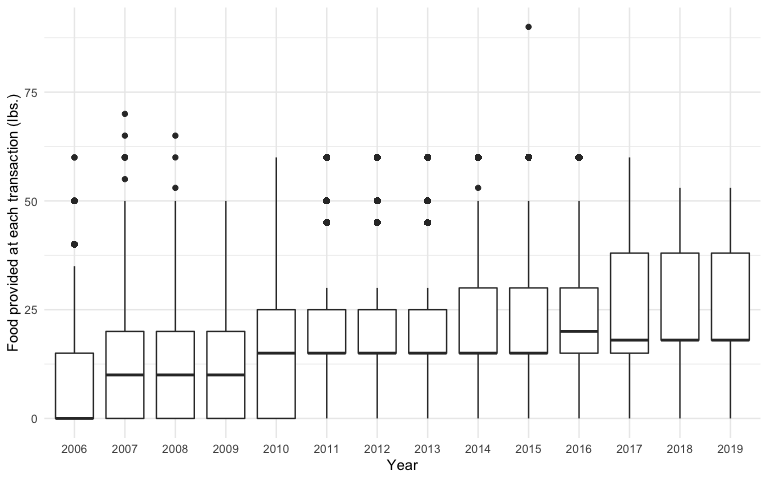
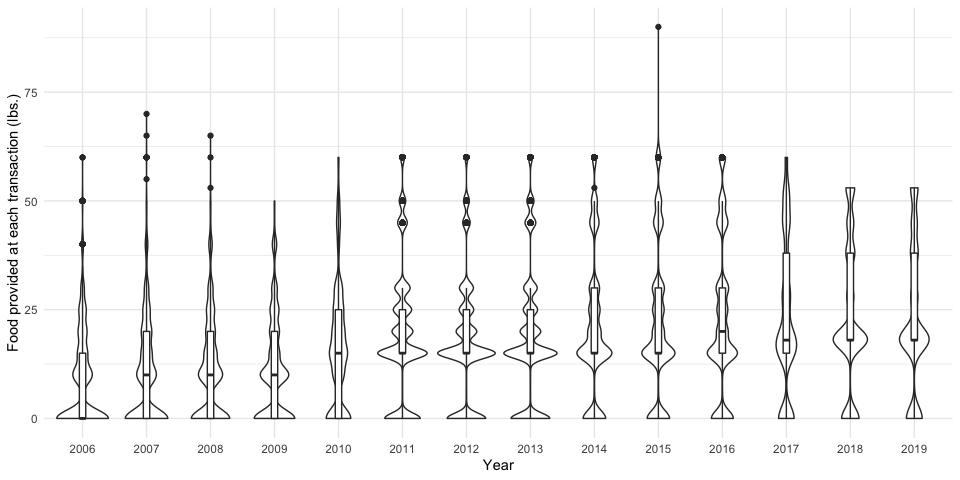
Updated project_1.Rmd to address points made in feedback.

diff --git a/project_1/results/project_1.md b/project_1/results/project_1.md
@@ -1,53 +1,69 @@
 Analysis of Urban Ministries of Durham Data
 ================
 Joseph Foster
-9/25/2019
+10/07/2019
 
-### Motivation of Overview
+### Motivation of Study
 
-Given one of the primary methods through which UMD is helping to end
-homelessness is food, I aim to assess how well the organization has
-distributed food in the past, and what factors may have influenced that
+Urban Ministries of Durham (UMD) is helping to end homelessness through
+the distribution of food, providing shelter, and helping develop
+futures. Here I aim to assess how well the organization has distributed
+food in the past, and what factors may have influenced that
 distribution.
 
 ### Report
 
-I first looked at how much food is distributed annually from 2006 to
+I first looked at how much food was distributed annually from 2006 to
 current date. What I found was the total annual food provided has
 increased over the last 5 years, and has been trending upward since
-2006.
+2006. Note data collection from the current year 2019 is likely
+incomplete and is probably driving the reported reduction of food
+provided to clients. Nonetheless, these data may be helpful for UMD when
+pitching to new funding sources, as they can show the the organization’s
+ability to provide more food to clients
+year-to-year.
 
 <img src="project_1_files/figure-gfm/fig1-1.png" style="display: block; margin: auto;" />
 
-To understand how much food was being distributed per transaction, I
-looked at the distribution of food quantity per interaction over a year
-for the past 13 years. This showed the average size of each food
-distribution has been stable for nearly a
-decade.
+Given the upward trend in total food distribution over the last decade I
+next looked to see how that food was distributed on a client-by-client
+basis. To understand how much food was being distributed per
+transaction, I looked at the distribution of food received during each
+interaction for every year over the past 13 years. The average amount of
+food given at each distribution has been stable for nearly a decade.
+This analysis also suggests UMD has done well at reducing any outlier
+food allotments since 2011. Taken together these data may suggest the
+operation procedures driving food distribution are helping to create an
+equality in the distribution of
+food.
 
 <img src="project_1_files/figure-gfm/fig2-1.png" style="display: block; margin: auto;" />
 
-To understand if paying a bill impacts the amount of food received per
-interaction, I looked at the amount of food received per interaction on
-an annual basis for individuals who reported paying a bill and those who
-did not. Over the past 13 years only two of the years showed a
-significant difference in the amount of food received when the client
-also reported paying a bill. However, these data shouldn’t be over
-interpreted as there were only 127 interactions where a bill was
-reported as paid, while there were over 65,000 interactions with no
-mention of paying
+I next sought to determine if other variables impacted how UMD is
+distributing food. Specifically, to understand if paying a bill impacts
+the amount of food received per interaction, I looked at the amount of
+food received per interaction on an annual basis for individuals who
+reported paying a bill and those who did not. Over the past 13 years,
+only two years showed a significant difference (2006, 2008) in the
+amount of food received when the client also reported paying a bill
+(Wilcoxn rank sum test, ns: p \> 0.05, \* p \<= 0.05, \*\* p \<= 0.01).
+However, these data shouldn’t be over interpreted as there were only 127
+interactions where a bill was reported as paid, while there were over
+65,000 interactions included in this analysis with no mention of paying
 bills.
 
 <img src="project_1_files/figure-gfm/fig-1.png" style="display: block; margin: auto;" />
 
+### Conclusion
+
 In summary, over the past decade UMD has been able to increase the total
-amount of food reaching its clients, while also increasing the average
-amount of food given per interaction. Although the data for clients
-paying bills was sparse, there is some evidence to suggest that
+amount of food reaching its clients, while also holding stable the
+average amount of food given per interaction. Although the data for
+clients paying bills was sparse, there is some evidence to suggest that
 reporting payment of bills doesn’t have an impact on the average amount
 of food clients receive at a given interaction. Given, one of the
-central tenants of UMD is to provide food to the community these
-preliminary results are encouraging.
+central tenants of UMD is to provide food to the community these results
+are encouraging.
 
 ### Notes on future data collection
 
